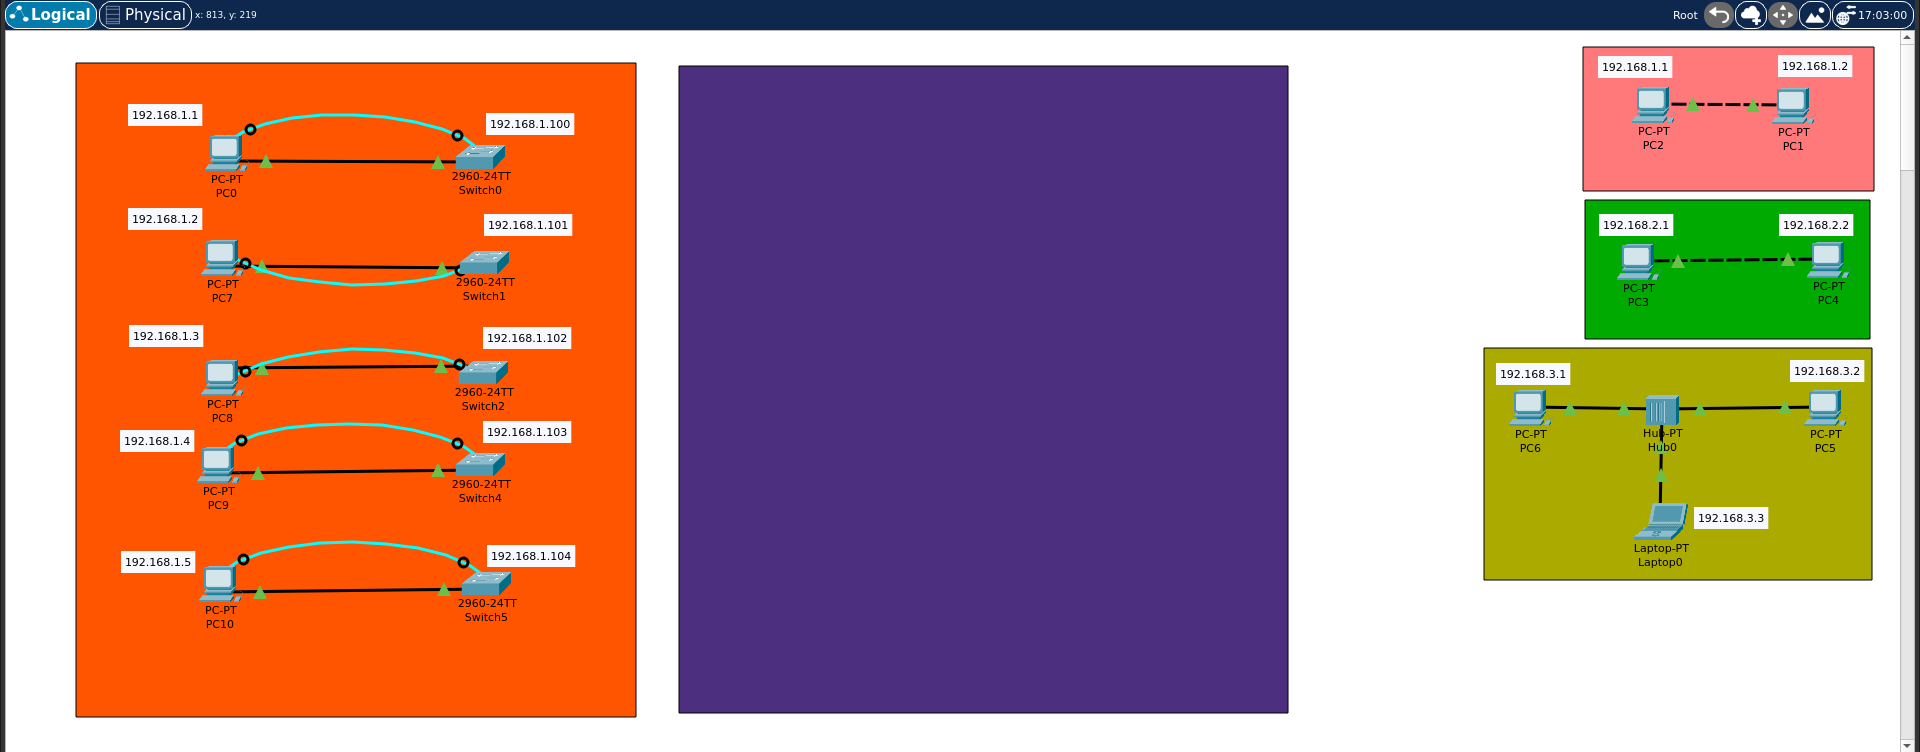
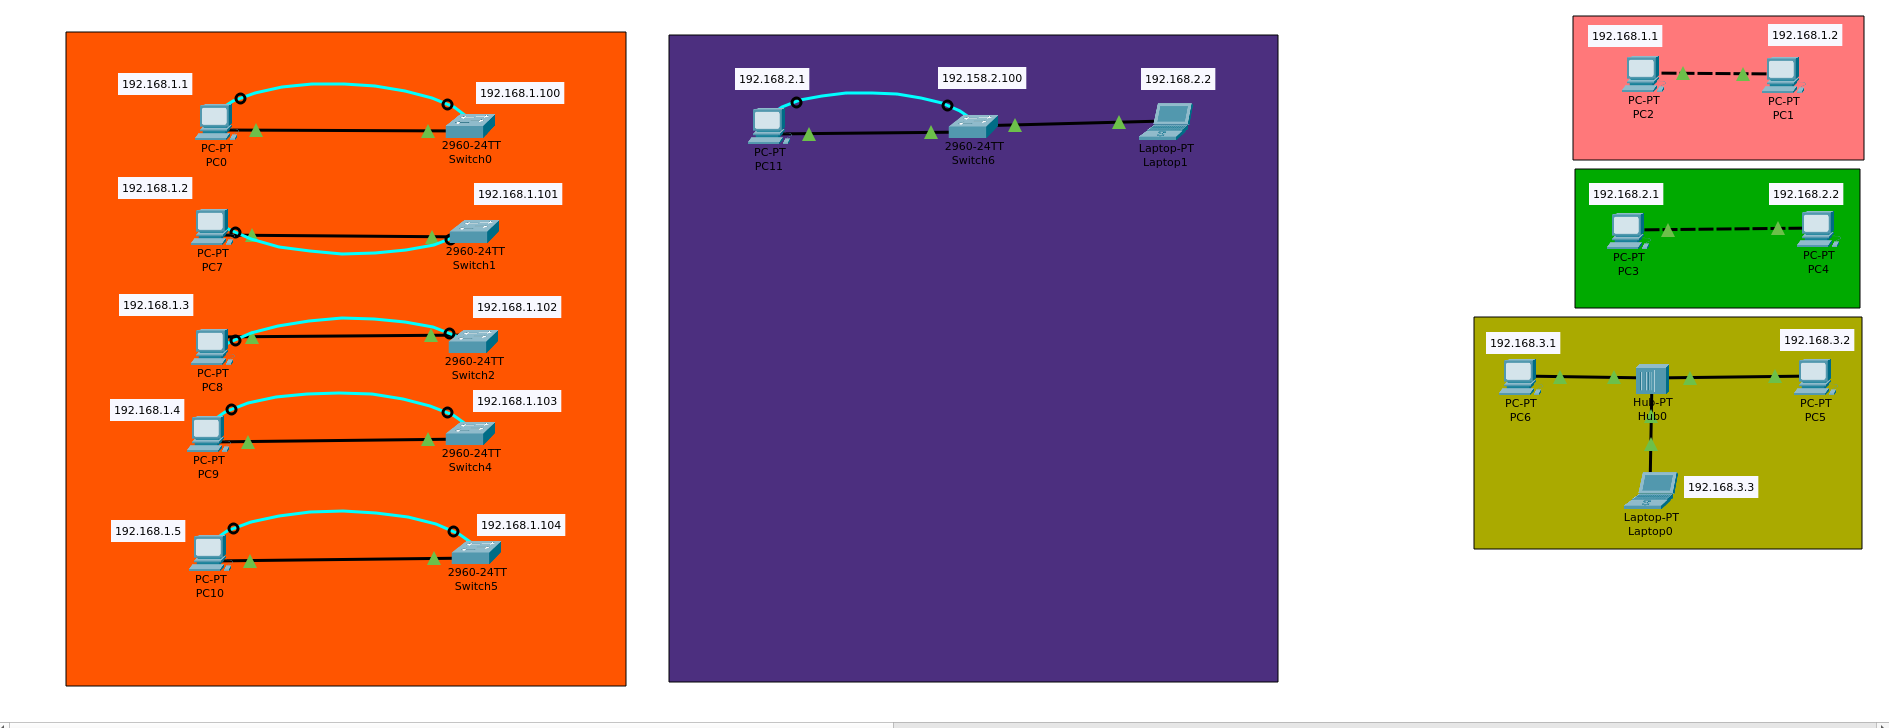
further task

Changed region(s): [[0.0, 0.0, 1.0, 1.0]]

diff --git a/LAB02/README.MD b/LAB02/README.MD
@@ -1,10 +1,16 @@
-1. switch> 📡 User EXEC Mode
-2. switch# 📡 Privileged EXEC Mode
-3. switch(configure)# 📡 Global Configuration Mode
-4. switch(configure-if)#  📡 Additional Sub-Modes:
+# From User EXEC to Privileged EXEC
+switch> enable
+
+# From Privileged EXEC to Global Configuration
+switch# configure terminal
+
+# From Global Configuration to Interface Configuration
+switch(config)# interface FastEthernet0/1
 
 
-✅  Changing modes
+![Timeline2_shutterstock_668209624](https://github.com/AOB-Creator/CCNA-road/blob/first-project/LAB02/image.png?raw=true)
+
+#✅  Changing modes
 
 switch> - switch#
 switch> enable
@@ -17,7 +23,7 @@ switch(config)# interface FastEthernet0/1
 
 
 
-📡 Privileged EXEC Mode
+#📡 Privileged EXEC Mode
 
 switch# show running-config
 switch# show ip interface brief
@@ -27,20 +33,23 @@ switch# write
 switch# reload
 
 
-📡 Global Configuration Mode ⬇
+#📡 Global Configuration Mode ⬇
 
-switch(config)# hostname 1cisco_floor
-1cisco_floor(config)# nohostname
-switch(config)# enable password cisco
-switch(config)# enable secret password cisco
-switch(config)# no enable password
-switch(config)# no enable secret
-switch(config)# line console 0
-switch(config)# service password-encryption
-switch(config)# banner motd #Unauthorized access is prohibited#
-switch(config)# interface vlan 1
-switch(config)# no shutdown
-switch(config)# ip address 192.168.1.100 255.255.255.0
+switch(config)# hostname 1cisco_floor        # Set hostname
+1cisco_floor(config)# no hostname            # Remove hostname
+
+switch(config)# enable password cisco        # Set enable password
+switch(config)# enable secret cisco          # Set encrypted enable password
+switch(config)# no enable password           # Remove enable password
+switch(config)# no enable secret             # Remove enable secret
+
+switch(config)# service password-encryption  # Encrypt passwords
+switch(config)# banner motd #Unauthorized access is prohibited#  # Set login banner
+
+switch(config)# interface vlan 1             # Access VLAN 1
+switch(config-if)# no shutdown               # Enable the interface
+switch(config-if)# ip address 192.168.1.100 255.255.255.0  # Assign IP
+
 
 
 
